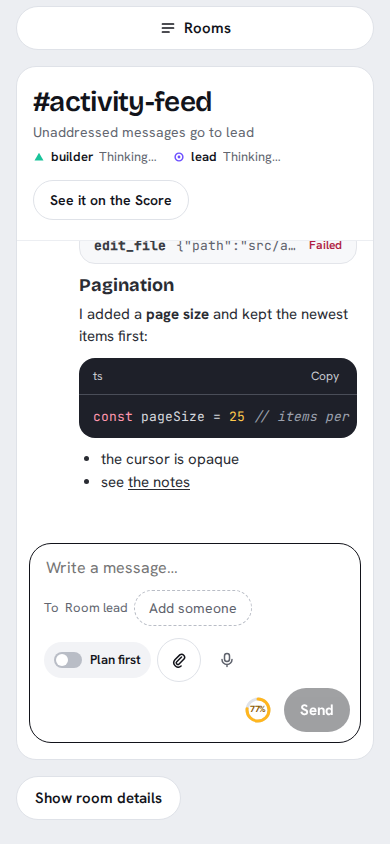
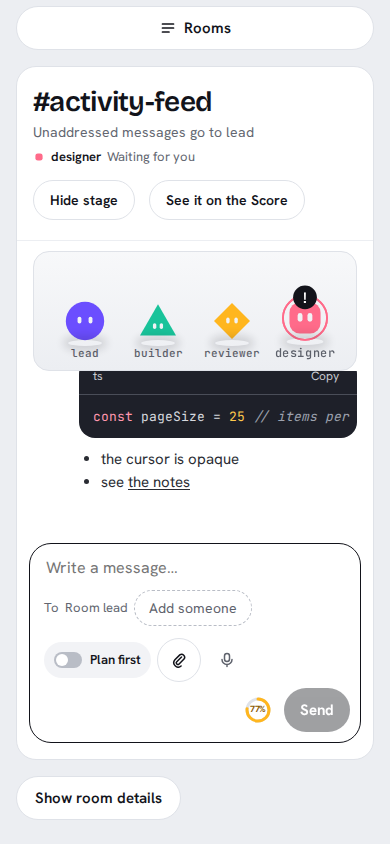
Release 1.12.0: room stage

diff --git a/CHANGELOG.md b/CHANGELOG.md
@@ -3,6 +3,21 @@
 All notable changes to Score are listed here. Score follows [Semantic Versioning](https://semver.org/); the format is
 based on [Keep a Changelog](https://keepachangelog.com/).
 
+## [1.12.0] — 2026-10-19
+
+### Added
+- **Room stage.** Under each chat room's title, a strip where the room's members live: agents with a pet pack play it
+  (with their mark as a badge), the others are their marks. While resting they wander, stop, and take breaks (coffee,
+  stretch, read — whatever the pack has); after 5 quiet minutes they nap. The stage shows what is happening in the room:
+  the one writing works, the one that has started but not written yet thinks, the one waiting for your approval steps
+  forward with "!", and a hand-off turns the two toward each other. Click a member to @mention it (and see its wave).
+  "Hide stage" is remembered per device; Settings › Look › Agents (Lively / Calm / Still) and reduced motion apply; on
+  phones up to 5 members show, then "+N".
+
+### Changed
+- The room header's status line now says what members are actually doing in the room ("Thinking…", "Working…",
+  "Waiting for you"), from the same source as the stage, instead of listing everyone who wrote in the last 10 minutes.
+
 ## [1.11.1] — 2026-10-19
 
 ### Changed

diff --git a/docs/TASKLOG.md b/docs/TASKLOG.md
@@ -503,3 +503,9 @@ One entry per completed task: what landed, review results, and any **rejected re
   change, offscreen pause left animations running, inherited-key lookup (`constructor`). Lead additions to the fix
   round: header "Thinking…" line contradicted the stage (it reads `activeAgents` = wrote in the last 10 min) → same
   mood source; Still keeps mood signs static; click plays `greet`; quiet-room naps after 5 min.
+- **v1.12.0** (10.10 room stage merged, 9c664ca1). Fix round: all 9 items with failing-first tests (builder); lead fixed
+  `e2e/shell.spec.ts` to check network addresses only (a pack portrait's `blob:` URL is not a request leaving the
+  machine; it showed when a parallel spec had a pack agent). 7 more baselines regenerated by the header change; lead
+  reviewed builtin-harbour-chat-light (header and stage agree). Combined on main: check green (contract 1420, web 2971,
+  server 4607, plugin 323, license); e2e 638 passed, 0 failed. README chat screenshots regenerated (3 files). Follow-up
+  noted by the builder: the sidebar room link still shows `activeAgents` glyphs ("wrote lately").

diff --git a/docs/PLAN.md b/docs/PLAN.md
@@ -478,7 +478,7 @@ portrait inside the shape at the smallest size). Done when: every `AgentGlyph` u
 and the mark otherwise; the idle file is decoded once per page, not per glyph; Still/reduced motion never animates;
 theme protection covers the portrait; Team card and agent header keep the full pet.
 
-**10.10 Room stage** (owner 2026-10-19: "let the avatar move around … a group of avatar on top of the room they're
+**10.10 Room stage** ✅ v1.12.0 (owner 2026-10-19: "let the avatar move around … a group of avatar on top of the room they're
 in" → preview → "the header concept is good to go"; decision 110) · brief `docs/briefs/10.10-room-stage.md`. A strip
 under each chat room's title where its members live: pets wander and take breaks, marks hop; the stage shows who is
 thinking, working or waiting for you; click a member to @mention it; hide per device; Lively / Calm / Still. Done
